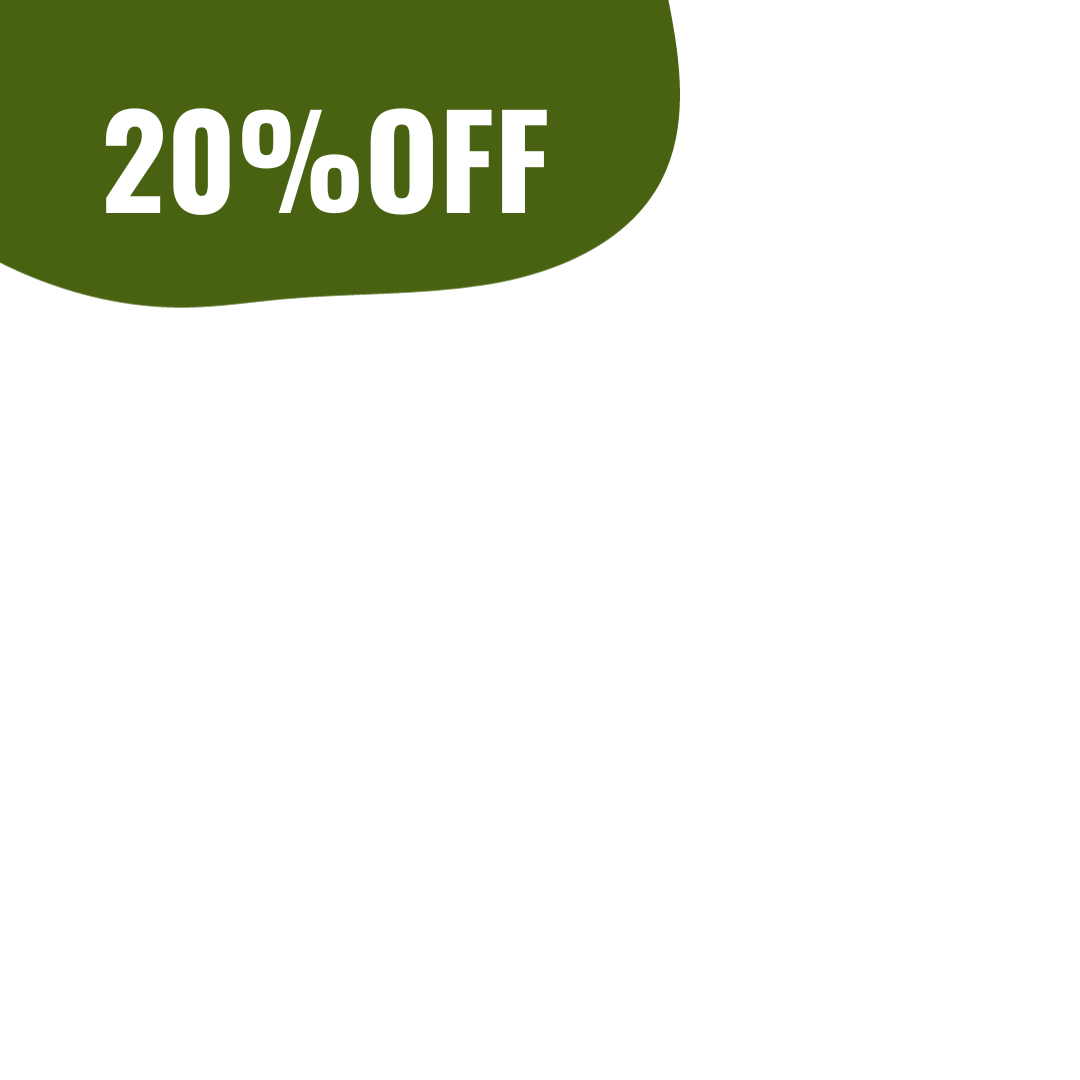
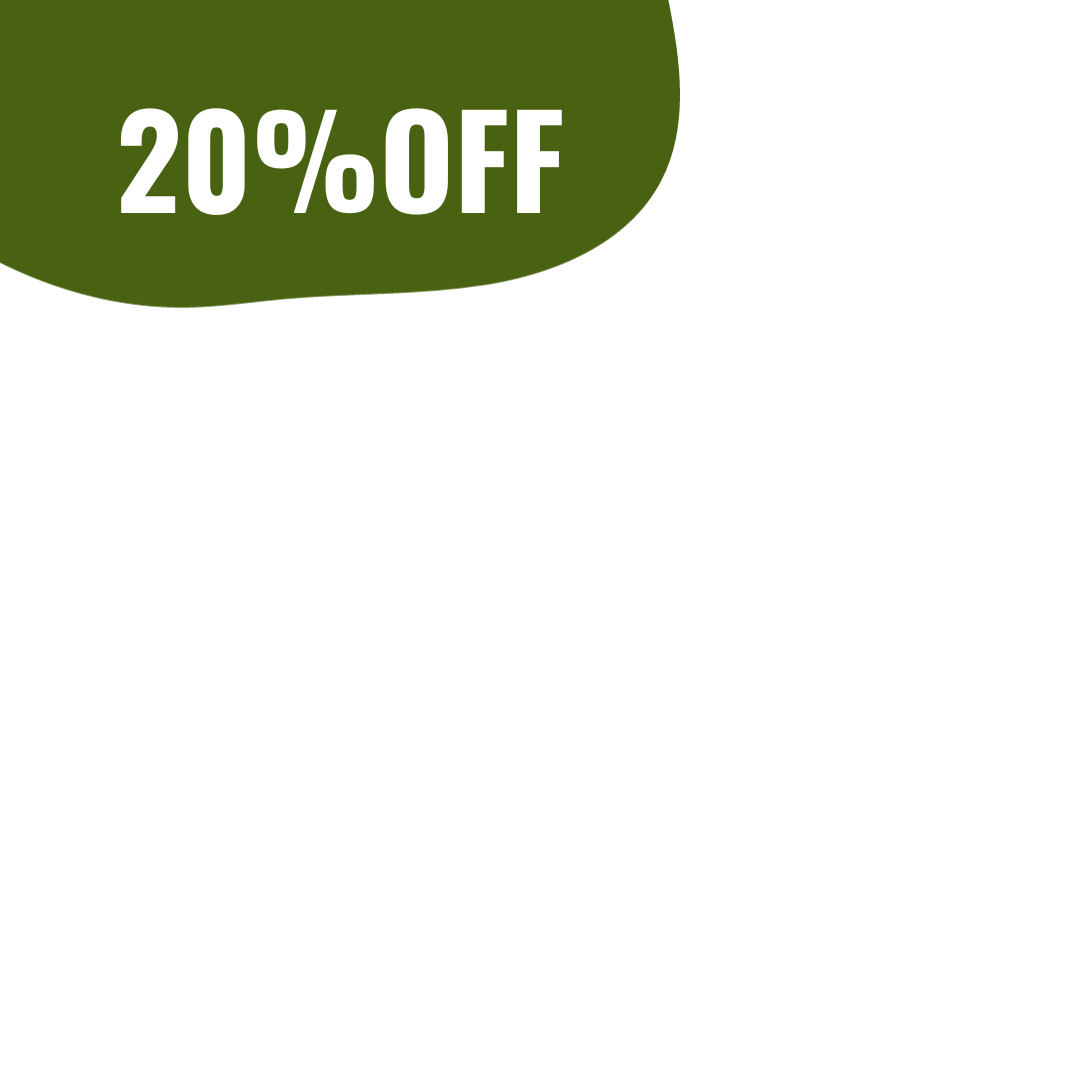
add 20% off tag for cyber monday

Changed region(s): [[0.0917, 0.0917, 0.5194, 0.2139]]

diff --git a/components/products/ProductCard.tsx b/components/products/ProductCard.tsx
@@ -43,7 +43,7 @@ export const ProductCard: FC<Props> = ({ product }) => {
                      priority={true}
                   />
 
-                  {/* <div className={styles.tagImageWrapper}>
+                  <div className={styles.tagImageWrapper}>
                      <Image
                         src='/img/20off-tag.png'
                         alt='20% off - Cyber Monday'
@@ -51,7 +51,7 @@ export const ProductCard: FC<Props> = ({ product }) => {
                         height={900}
                         priority={true}
                      />
-                  </div> */}
+                  </div>
                </div>
             </Link>
 

diff --git a/components/products/ProductImg.tsx b/components/products/ProductImg.tsx
@@ -22,15 +22,15 @@ export const ProductImg: FC<Props> = ({ product }) => {
                priority
             />
 
-            {/* <div className={styles.tagImageWrapper}>
+            <div className={styles.tagImageWrapper}>
                <Image
-                  src='/img/10off-tag.png'
-                  alt='10% off - Promo día de la madre'
+                  src='/img/20off-tag.png'
+                  alt='20% off - Cyber Monday'
                   width={750}
                   height={900}
                   priority={true}
                />
-            </div> */}
+            </div>
          </div>
       </div>
    );
